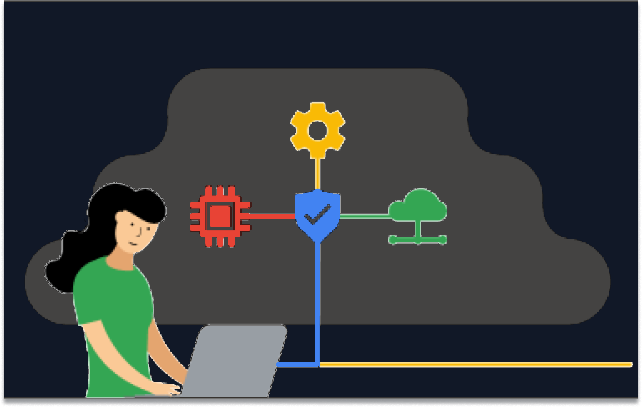
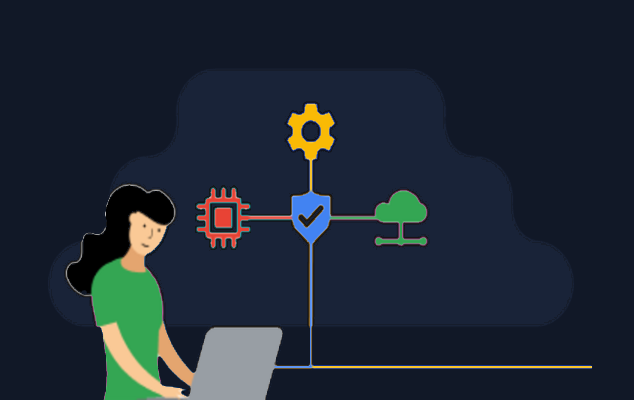
create job right section & complete job section

diff --git a/index.html b/index.html
@@ -38,22 +38,36 @@
                 class="hidden lg:flex items-center justify-center gap-5 text-black dark:text-white"
             >
                 <li>
-                    <a class="px-4 py-2 text-redOrange" href="#">Home</a>
+                    <a
+                        class="px-4 py-2 text-redOrange transition-all duration-200"
+                        href="#"
+                    >
+                        Home
+                    </a>
                 </li>
                 <li>
-                    <a class="px-4 py-2 hover:text-redOrange" href="#"
-                        >About us</a
+                    <a
+                        class="px-4 py-2 hover:text-redOrange transition-all duration-200"
+                        href="#"
                     >
+                        About us
+                    </a>
                 </li>
                 <li>
-                    <a class="px-4 py-2 hover:text-redOrange" href="#"
-                        >Upskill</a
+                    <a
+                        class="px-4 py-2 hover:text-redOrange transition-all duration-200"
+                        href="#"
                     >
+                        Upskill
+                    </a>
                 </li>
                 <li>
-                    <a class="px-4 py-2 hover:text-redOrange" href="#"
-                        >Contact us</a
+                    <a
+                        class="px-4 py-2 hover:text-redOrange transition-all duration-200"
+                        href="#"
                     >
+                        Contact us
+                    </a>
                 </li>
             </ul>
 
@@ -65,7 +79,7 @@
                     Register Interest
                 </button>
                 <button
-                    class="hidden sm:inline-block p-3 rounded-full bg-gray-100 dark:bg-slate-600 text-black dark:text-white size-[50px] transition-all duration-200 active:scale-95 mode-switch"
+                    class="hidden sm:inline-block p-3 rounded-full bg-gray-100 dark:bg-slate-600 text-black dark:text-white size-[50px] transition-[scale] duration-200 active:scale-95 mode-switch"
                 >
                     <svg
                         xmlns="http://www.w3.org/2000/svg"
@@ -125,25 +139,27 @@
                         class="hidden absolute top-[60px] right-0 w-56 bg-gray-100 dark:bg-slate-800 shadow-lg py-5 rounded-lg phoneNav border border-redOrange"
                     >
                         <ul class="space-y-2">
-                            <li class="text-white bg-redOrange cursor-pointer">
+                            <li
+                                class="text-white bg-redOrange transition-all duration-200 cursor-pointer"
+                            >
                                 <a class="block py-2 px-7" href="#">Home</a>
                             </li>
                             <li
-                                class="hover:bg-redOrange hover:text-white dark:text-white cursor-pointer"
+                                class="hover:bg-redOrange hover:text-white dark:text-white transition-all duration-200 cursor-pointer"
                             >
                                 <a class="block py-2 px-7" href="#">About us</a>
                             </li>
                             <li
-                                class="hover:bg-redOrange hover:text-white dark:text-white cursor-pointer"
+                                class="hover:bg-redOrange hover:text-white dark:text-white transition-all duration-200 cursor-pointer"
                             >
                                 <a class="block py-2 px-7" href="#">Upskill</a>
                             </li>
                             <li
-                                class="hover:bg-redOrange hover:text-white dark:text-white cursor-pointer"
+                                class="hover:bg-redOrange hover:text-white dark:text-white transition-all duration-200 cursor-pointer"
                             >
-                                <a class="block py-2 px-7" href="#"
-                                    >Contact us</a
-                                >
+                                <a class="block py-2 px-7" href="#">
+                                    Contact us
+                                </a>
                             </li>
                         </ul>
 
@@ -372,7 +388,7 @@
 
         <!-- Learn Section -->
         <section
-            class="flex flex-col-reverse xl:flex-row items-center justify-between gap-10 px-8 sm:px-10 lg:px-24 py-10 my-20"
+            class="flex flex-col-reverse xl:flex-row items-center justify-between gap-10 px-8 sm:px-10 lg:px-24 py-10 mt-20 mb-0"
         >
             <!-- Learn Left Section -->
             <section
@@ -445,7 +461,7 @@
             <section
                 class="bg-white dark:bg-gray-900 rounded-3xl py-10 size-full xl:w-1/2 xl:h-[700px] space-y-7 sm:space-y-10 shadow-xl"
             >
-                <div>
+                <div class="flex justify-center">
                     <img
                         class="xl:h-[245px] object-contain inline-block dark:hidden"
                         src="./src/img/skill_img.png"
@@ -491,7 +507,7 @@
 
         <!-- Job Section -->
         <section
-            class="flex flex-col-reverse xl:flex-row items-center justify-between gap-10 px-8 sm:px-10 lg:px-24 py-10 my-20"
+            class="flex flex-col-reverse xl:flex-row items-center justify-between gap-10 px-8 sm:px-10 lg:px-24 py-10 mt-10 sm:mt-20 mb-0"
         >
             <!-- Job Left Section -->
             <section
@@ -503,18 +519,22 @@
 
                 <span class="block w-full h-[1px] bg-redOrange/50 my-7"></span>
 
-                <div class="grid grid-cols-2 gap-y-5">
+                <div
+                    class="grid grid-cols-1 md:grid-cols-2 xl:grid-cols-1 2xl:grid-cols-2 gap-y-5 h-[350px] md:h-auto xl:h-[207px] overflow-y-auto"
+                >
                     <div class="flex items-center gap-5">
                         <div
                             class="flex items-center justify-center bg-redOrange/10 rounded-full"
                         >
                             <img
-                                class="dark:brightness-200 p-3 rounded-full dark:invert"
+                                class="dark:brightness-200 rounded-full dark:invert"
                                 src="./src/img/right-arrow.png"
                                 alt="right-arrow"
                             />
                         </div>
-                        <span class="font-medium text-lg dark:text-white">
+                        <span
+                            class="font-medium text-sm sm:text-lg dark:text-white"
+                        >
                             Database administrator
                         </span>
                     </div>
@@ -524,12 +544,14 @@
                             class="flex items-center justify-center bg-redOrange/10 rounded-full"
                         >
                             <img
-                                class="dark:brightness-200 p-3 rounded-full dark:invert"
+                                class="dark:brightness-200 rounded-full dark:invert"
                                 src="./src/img/right-arrow.png"
                                 alt="right-arrow"
                             />
                         </div>
-                        <span class="font-medium text-lg dark:text-white">
+                        <span
+                            class="font-medium text-sm sm:text-lg dark:text-white"
+                        >
                             Help desk technician
                         </span>
                     </div>
@@ -539,12 +561,14 @@
                             class="flex items-center justify-center bg-redOrange/10 rounded-full"
                         >
                             <img
-                                class="dark:brightness-200 p-3 rounded-full dark:invert"
+                                class="dark:brightness-200 rounded-full dark:invert"
                                 src="./src/img/right-arrow.png"
                                 alt="right-arrow"
                             />
                         </div>
-                        <span class="font-medium text-lg dark:text-white">
+                        <span
+                            class="font-medium text-sm sm:text-lg dark:text-white"
+                        >
                             Tech support specialist
                         </span>
                     </div>
@@ -554,12 +578,14 @@
                             class="flex items-center justify-center bg-redOrange/10 rounded-full"
                         >
                             <img
-                                class="dark:brightness-200 p-3 rounded-full dark:invert"
+                                class="dark:brightness-200 rounded-full dark:invert"
                                 src="./src/img/right-arrow.png"
                                 alt="right-arrow"
                             />
                         </div>
-                        <span class="font-medium text-lg dark:text-white">
+                        <span
+                            class="font-medium text-sm sm:text-lg dark:text-white"
+                        >
                             IT support specialist
                         </span>
                     </div>
@@ -569,12 +595,14 @@
                             class="flex items-center justify-center bg-redOrange/10 rounded-full"
                         >
                             <img
-                                class="dark:brightness-200 p-3 rounded-full dark:invert"
+                                class="dark:brightness-200 rounded-full dark:invert"
                                 src="./src/img/right-arrow.png"
                                 alt="right-arrow"
                             />
                         </div>
-                        <span class="font-medium text-lg dark:text-white">
+                        <span
+                            class="font-medium text-sm sm:text-lg dark:text-white"
+                        >
                             IT specialist
                         </span>
                     </div>
@@ -584,12 +612,14 @@
                             class="flex items-center justify-center bg-redOrange/10 rounded-full"
                         >
                             <img
-                                class="dark:brightness-200 p-3 rounded-full dark:invert"
+                                class="dark:brightness-200 rounded-full dark:invert"
                                 src="./src/img/right-arrow.png"
                                 alt="right-arrow"
                             />
                         </div>
-                        <span class="font-medium text-lg dark:text-white">
+                        <span
+                            class="font-medium text-sm sm:text-lg dark:text-white"
+                        >
                             IT technician
                         </span>
                     </div>
@@ -599,12 +629,14 @@
                             class="flex items-center justify-center bg-redOrange/10 rounded-full"
                         >
                             <img
-                                class="dark:brightness-200 p-3 rounded-full dark:invert"
+                                class="dark:brightness-200 rounded-full dark:invert"
                                 src="./src/img/right-arrow.png"
                                 alt="right-arrow"
                             />
                         </div>
-                        <span class="font-medium text-lg dark:text-white">
+                        <span
+                            class="font-medium text-sm sm:text-lg dark:text-white"
+                        >
                             Systems analyst
                         </span>
                     </div>
@@ -614,12 +646,14 @@
                             class="flex items-center justify-center bg-redOrange/10 rounded-full"
                         >
                             <img
-                                class="dark:brightness-200 p-3 rounded-full dark:invert"
+                                class="dark:brightness-200 rounded-full dark:invert"
                                 src="./src/img/right-arrow.png"
                                 alt="right-arrow"
                             />
                         </div>
-                        <span class="font-medium text-lg dark:text-white">
+                        <span
+                            class="font-medium text-sm sm:text-lg dark:text-white"
+                        >
                             Computer user specialist
                         </span>
                     </div>
@@ -629,12 +663,14 @@
                             class="flex items-center justify-center bg-redOrange/10 rounded-full"
                         >
                             <img
-                                class="dark:brightness-200 p-3 rounded-full dark:invert"
+                                class="dark:brightness-200 rounded-full dark:invert"
                                 src="./src/img/right-arrow.png"
                                 alt="right-arrow"
                             />
                         </div>
-                        <span class="font-medium text-lg dark:text-white">
+                        <span
+                            class="font-medium text-sm sm:text-lg dark:text-white"
+                        >
                             Network engineer
                         </span>
                     </div>
@@ -644,16 +680,34 @@
                             class="flex items-center justify-center bg-redOrange/10 rounded-full"
                         >
                             <img
-                                class="dark:brightness-200 p-3 rounded-full dark:invert"
+                                class="dark:brightness-200 rounded-full dark:invert"
                                 src="./src/img/right-arrow.png"
                                 alt="right-arrow"
                             />
                         </div>
-                        <span class="font-medium text-lg dark:text-white">
+                        <span
+                            class="font-medium text-sm sm:text-lg dark:text-white"
+                        >
                             IT assistant
                         </span>
                     </div>
                 </div>
+            </section>
+
+            <!-- Job Right Section -->
+            <section
+                class="flex items-end bg-white dark:bg-gray-900 rounded-3xl px-7 py-10 size-full xl:w-1/2 xl:h-[400px] overflow-y-auto shadow-xl"
+            >
+                <img
+                    class="inline-block dark:hidden w-full"
+                    src="./src/img/job_img.png"
+                    alt="job_img"
+                />
+                <img
+                    class="hidden dark:inline-block w-full"
+                    src="./src/img/job_img-for-dark.png"
+                    alt="job_img"
+                />
             </section>
         </section>
 
